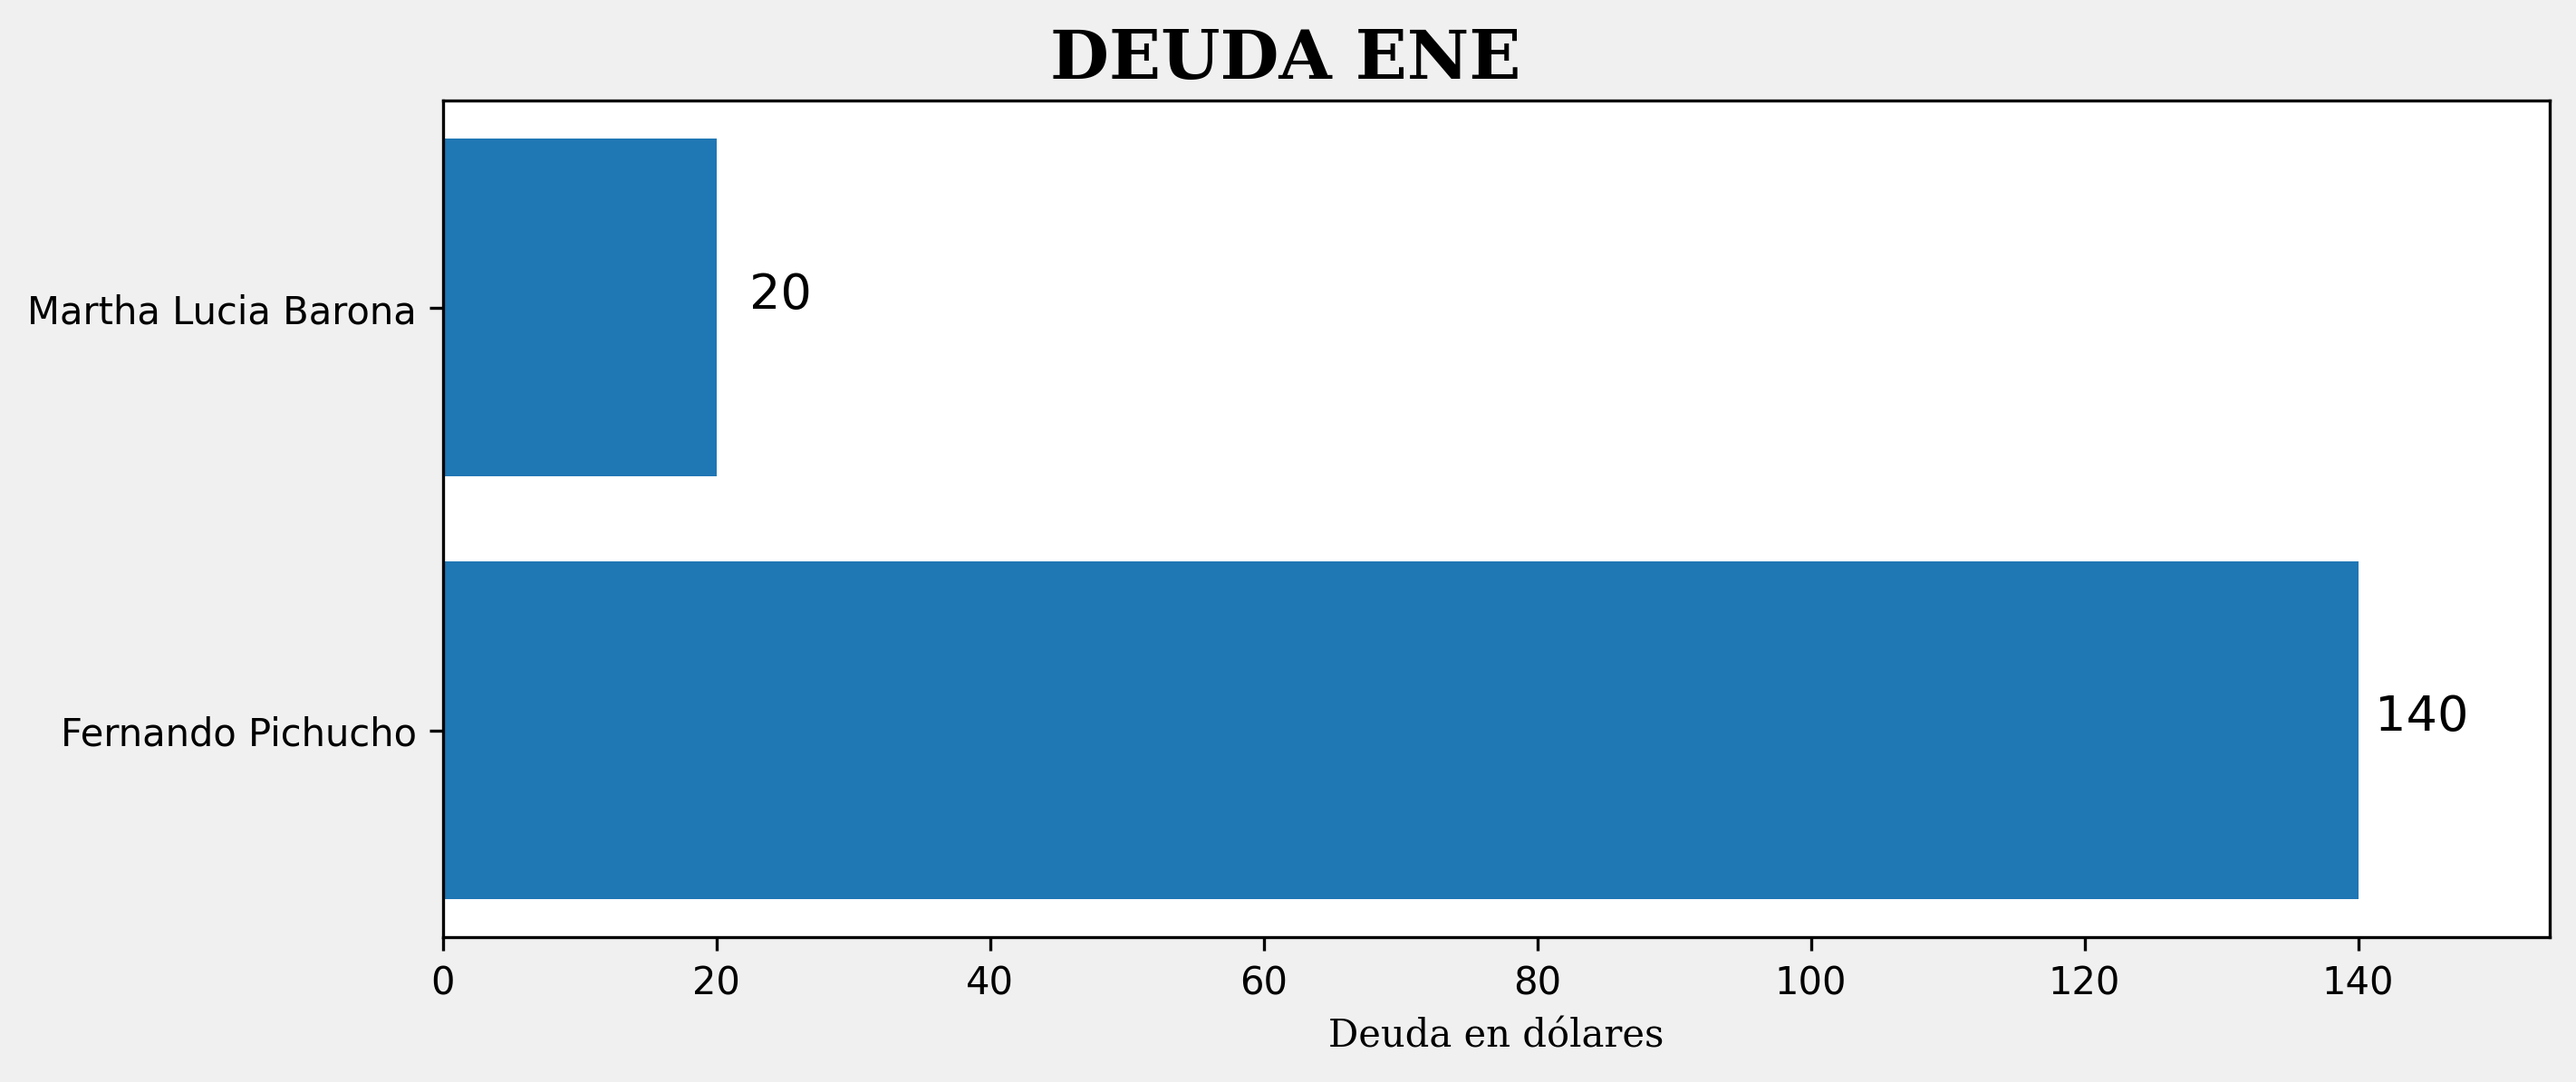
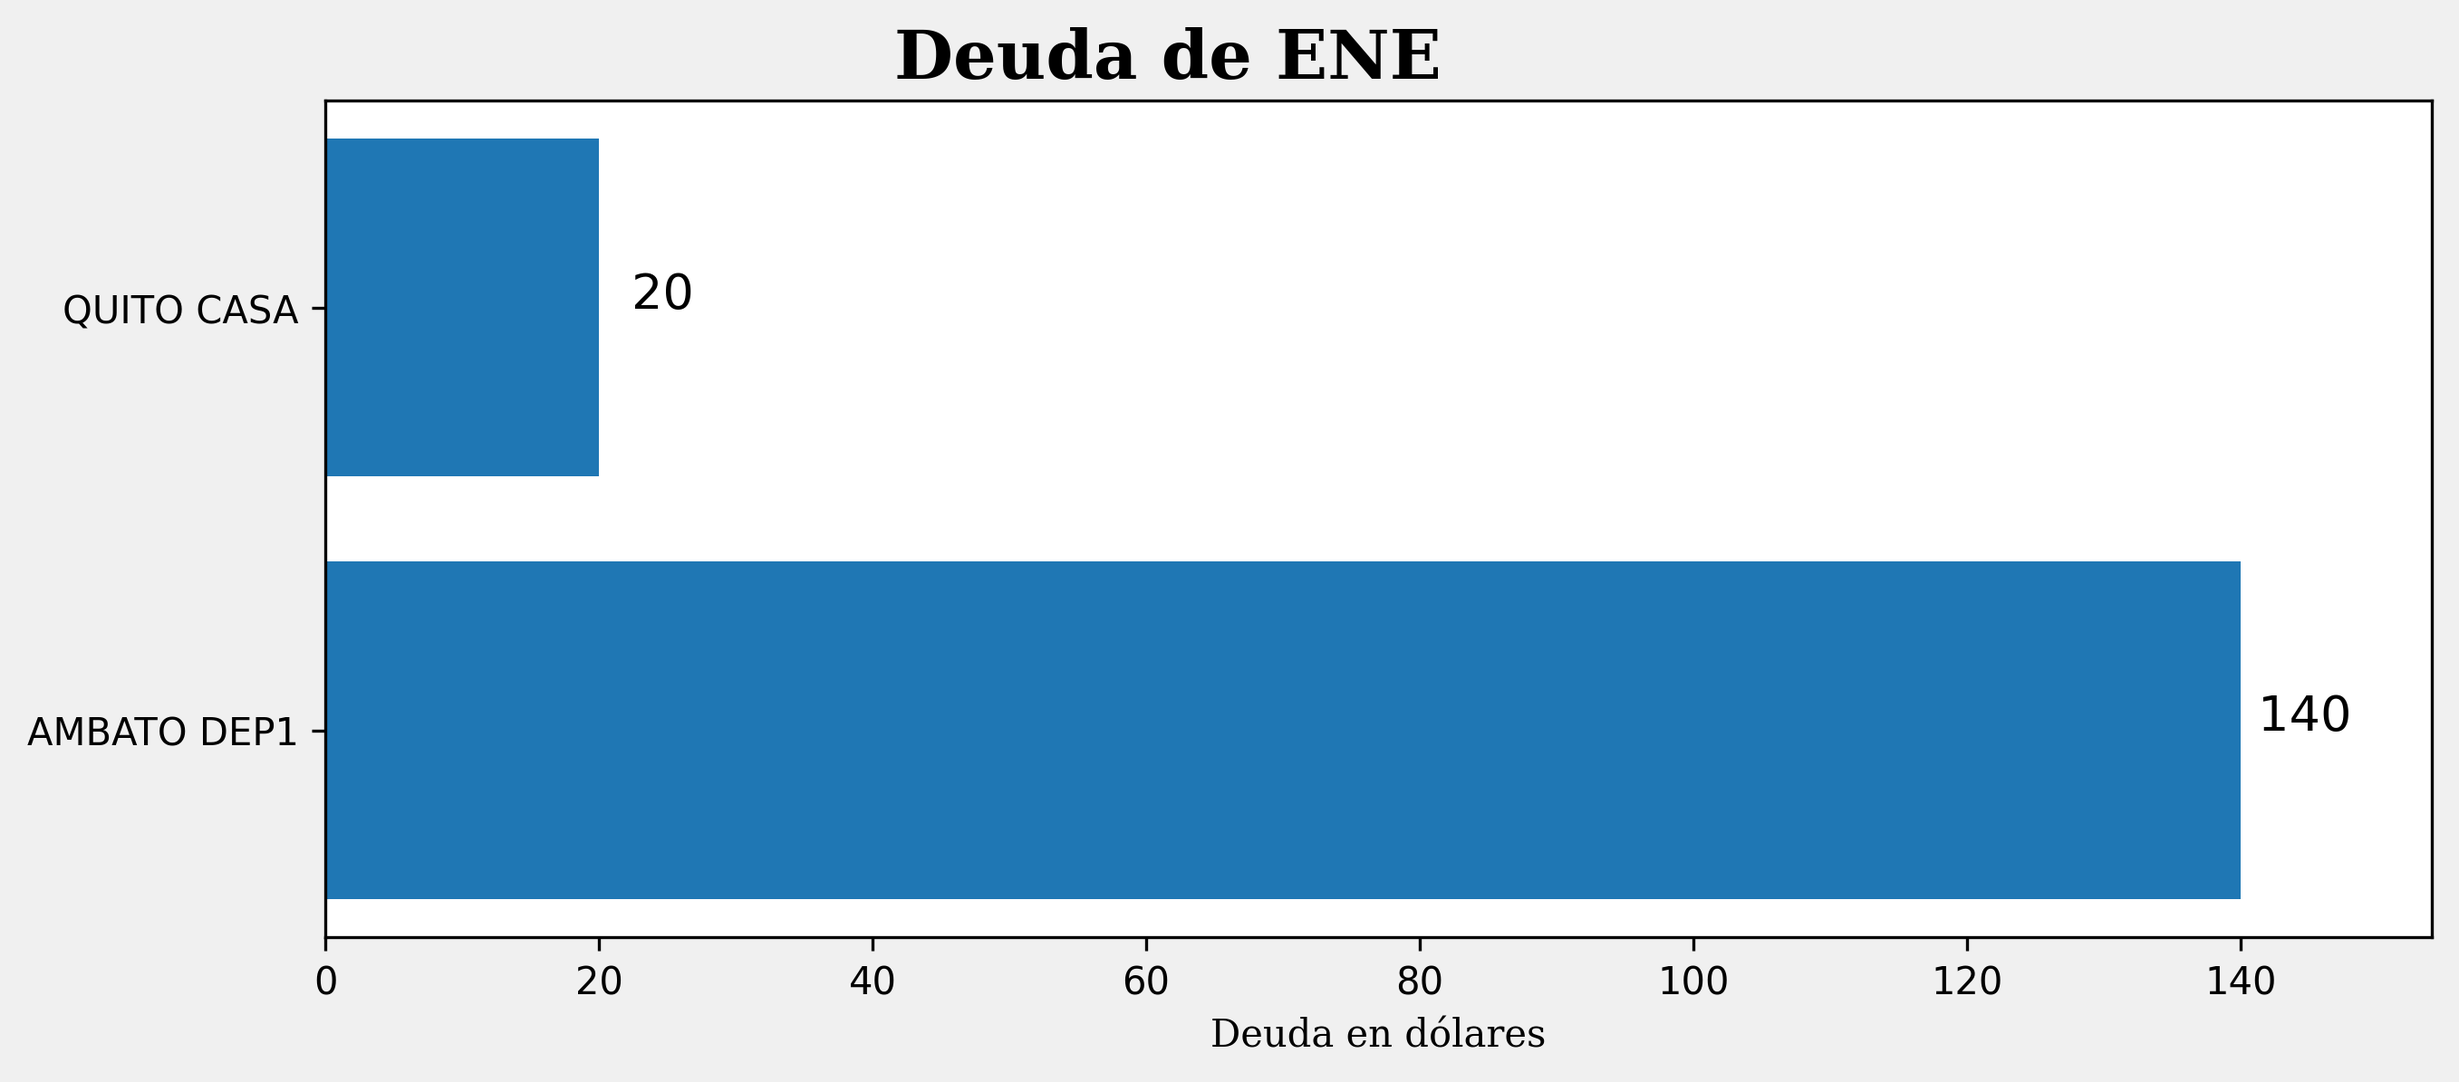
departament name in dataframes

diff --git a/src/dataframes.py b/src/dataframes.py
@@ -42,13 +42,13 @@ def deuda(mes='total'):
 
     if mes == 'total':
         deuda_total= df_deuda.loc[:, df_deuda.columns.get_level_values(1) == 'deuda'].sum(axis=1)
-        return pd.DataFrame(deuda_total.values, index=df_deuda.index.get_level_values(0), columns=['deuda'])
+        return pd.DataFrame(deuda_total.values, index=[df_deuda.index.get_level_values(2),df_deuda.index.get_level_values(0)], columns=['deuda'])
          
     df_deuda = df_deuda.loc[:,df_deuda.columns.get_level_values(0) == mes]
     pago = df_deuda[(mes,'pago')].tolist()
     deuda = df_deuda[(mes,'deuda')].tolist()
     precio = df_deuda.index.get_level_values(1)
     lista = list(zip(precio,pago,deuda))
-    df_deuda = pd.DataFrame(lista, index = df_deuda.index.get_level_values(0), columns=['precio', 'pago', 'deuda'])
+    df_deuda = pd.DataFrame(lista, index=[df_deuda.index.get_level_values(2),df_deuda.index.get_level_values(0)], columns=['precio', 'pago', 'deuda'])
     return df_deuda
 

diff --git a/src/create_image.py b/src/create_image.py
@@ -9,7 +9,7 @@ def img_deuda(mes='total'):
 
     fig = plt.figure(figsize=(10,4))
     fig.set_facecolor('#f0f0f0')
-    bars =plt.barh(df_meses.index,df_meses['deuda'], height=0.8)
+    bars =plt.barh(df_meses.index.get_level_values(0),df_meses['deuda'], height=0.8)
     plt.title(titulo[0],fontsize=18, fontfamily='serif',  fontweight='bold', x = 0.4)
     plt.xlabel('Deuda en dólares', fontsize=10, fontfamily='serif')
     for bar in bars:
